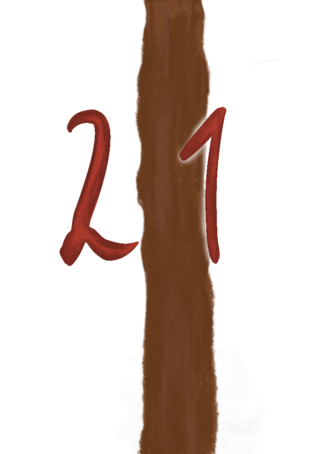
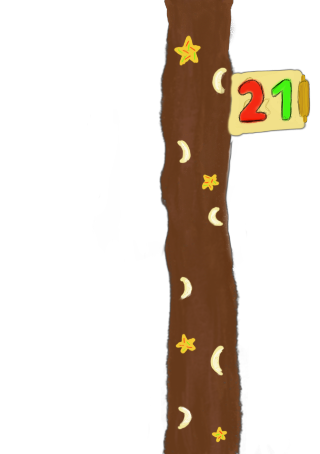
Tag 21

Changed region(s): [[0.1875, 0.0, 0.9688, 1.0], [0.5625, 0.5859, 0.625, 0.6784], [0.5625, 0.8943, 0.5938, 0.9559]]

diff --git a/src/main.ts b/src/main.ts
@@ -4,7 +4,7 @@ const app = express();
 app.set("view engine", "ejs");
 
 app.get("/", (request, response) => {
-	response.render("index", { currentDay: 20 });
+	response.render("index", { currentDay: 21 });
 });
 app.get("/tag/:number", (request, response) => {
 	if (request.params.number === "6") {
